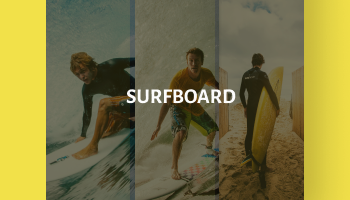
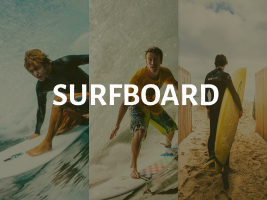
уменьшил размеры  балуна

diff --git a/js/map.js b/js/map.js
@@ -20,13 +20,13 @@
     myPlacemark = new ymaps.Placemark(myMap.getCenter(), {
           // Зададим содержимое заголовка балуна.
           balloonContentHeader:
-          '<span class="description">Профессиональные доски для серфинга</span>',
+          '<span class="description">Профессиональные доски</br> для серфинга</span>',
       // Зададим содержимое основной части балуна.
-      balloonContentBody: '<img src="img/baloon.png" height="200" width="350"> <br/> ' +
+      balloonContentBody: '<img src="img/baloon.png" height="200" width="267"> <br/> ' +
           '<a href="tel:+78009039090">8 800 903 90 90</a><br/>' + 'Москва, ул.Новый Арбат, д.31/12<br/>' +
           'Для детей и взрослых<br/>',
       // Зададим содержимое нижней части балуна.
-      balloonContentFooter: '<a href=:"https://romanovmichael.github.io/surfproject/">https://mail.ru</a>'
+      balloonContentFooter: '<a href=:"https://romanovmichael.github.io/surfproject">romanovmichael.github.io/surfproject</a>'
 
     }, {
           
